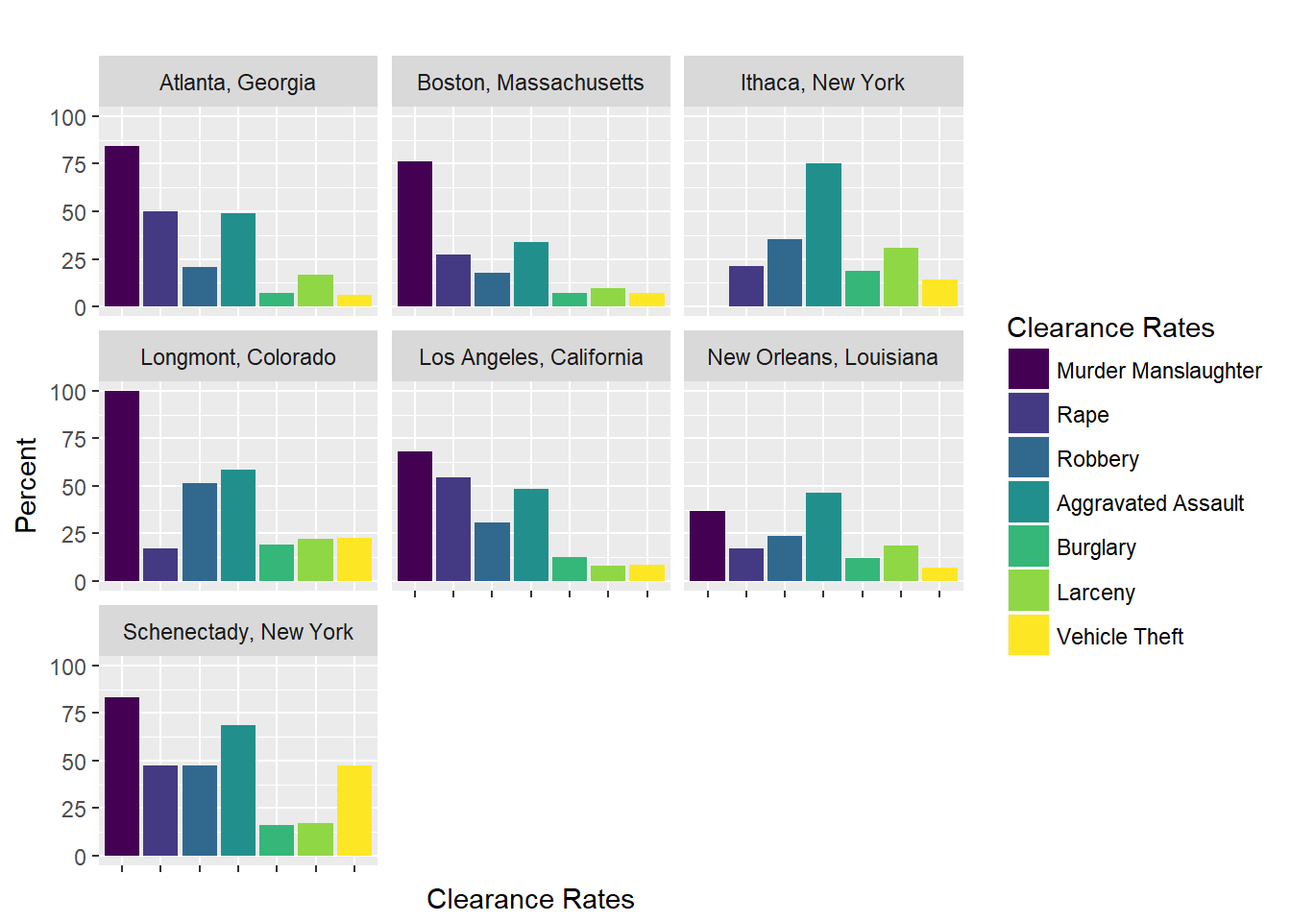
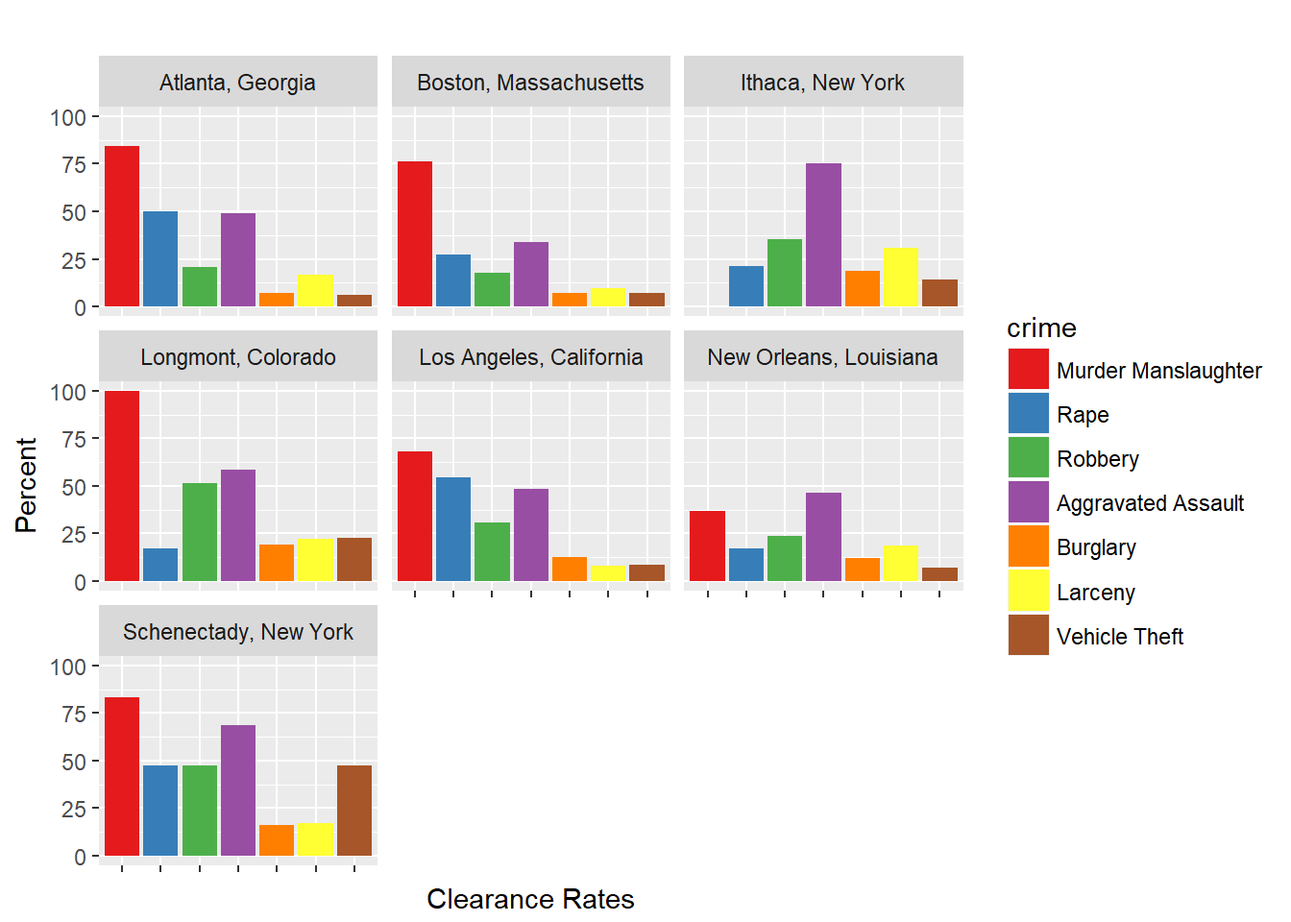
changed the colors in UCR blog post, and modified the date on current blog post (2/21)

diff --git a/docs/2017/06/04/public-safety-open-data-portal/index.html b/docs/2017/06/04/public-safety-open-data-portal/index.html
@@ -282,7 +282,7 @@ On a positive note, incident locations contain latitudes and longitudes that app
 <p>Below we take a look at incidents for Atlanta PD. First we load the information and limit to the first 4 months of 2017. Next, we examine the recorded times for these 7,668 incidents. There were an average of 1.3 incidents per day. Focusing on the minutes shows that officers entering the information were likely to round to the nearest hour, 30 minutes, or other increments, rather than entering an accurately recorded time.</p>
 <p><div id="htmlwidget-1" style="width:100%;height:auto;" class="datatables html-widget"></div>
 <script type="application/json" data-for="htmlwidget-1">{"x":{"filter":"none","data":[[0,30,45,15,20,40,50,10,25,55,35,5,1,2,6,43,21,22,58,42,54,7,11,47,26,28,52,9,12,39,41,53,4,17,44,48,56,3,19,24,37,49,59,8,33,36,57,13,46,23,31,38,51,14,18,29,32,27,16,34],[3393,1318,331,285,243,222,222,169,102,88,85,81,64,31,30,30,29,29,29,28,28,27,27,27,25,25,25,24,24,24,24,24,23,23,23,23,23,22,22,22,22,22,22,21,21,21,21,20,20,18,18,18,18,17,17,17,17,16,14,14],[0.442488262910798,0.17188315075639,0.0431664058424622,0.0371674491392801,0.0316901408450704,0.0289514866979656,0.0289514866979656,0.0220396452790819,0.013302034428795,0.0114762649973918,0.0110850286906625,0.0105633802816901,0.00834637454355764,0.00404277516953573,0.00391236306729264,0.00391236306729264,0.00378195096504956,0.00378195096504956,0.00378195096504956,0.00365153886280647,0.00365153886280647,0.00352112676056338,0.00352112676056338,0.00352112676056338,0.0032603025560772,0.0032603025560772,0.0032603025560772,0.00312989045383412,0.00312989045383412,0.00312989045383412,0.00312989045383412,0.00312989045383412,0.00299947835159103,0.00299947835159103,0.00299947835159103,0.00299947835159103,0.00299947835159103,0.00286906624934794,0.00286906624934794,0.00286906624934794,0.00286906624934794,0.00286906624934794,0.00286906624934794,0.00273865414710485,0.00273865414710485,0.00273865414710485,0.00273865414710485,0.00260824204486176,0.00260824204486176,0.00234741784037559,0.00234741784037559,0.00234741784037559,0.00234741784037559,0.0022170057381325,0.0022170057381325,0.0022170057381325,0.0022170057381325,0.00208659363588941,0.00182576943140323,0.00182576943140323],[0.442488262910798,0.614371413667188,0.657537819509651,0.694705268648931,0.726395409494001,0.755346896191967,0.784298382889932,0.806338028169014,0.819640062597809,0.831116327595201,0.842201356285863,0.852764736567553,0.861111111111111,0.865153886280647,0.86906624934794,0.872978612415232,0.876760563380282,0.880542514345331,0.884324465310381,0.887976004173187,0.891627543035994,0.895148669796557,0.898669796557121,0.902190923317684,0.905451225873761,0.908711528429838,0.911971830985915,0.91510172143975,0.918231611893584,0.921361502347418,0.924491392801252,0.927621283255086,0.930620761606677,0.933620239958268,0.936619718309859,0.93961919666145,0.942618675013041,0.945487741262389,0.948356807511737,0.951225873761085,0.954094940010433,0.956964006259781,0.959833072509129,0.962571726656234,0.965310380803339,0.968049034950443,0.970787689097548,0.97339593114241,0.976004173187272,0.978351591027647,0.980699008868023,0.983046426708399,0.985393844548774,0.987610850286907,0.989827856025039,0.992044861763172,0.994261867501304,0.996348461137194,0.998174230568597,1]],"container":"<table class=\"display\">\n  <thead>\n    <tr>\n      <th>minute<\/th>\n      <th>count<\/th>\n      <th>percent<\/th>\n      <th>cumulative<\/th>\n    <\/tr>\n  <\/thead>\n<\/table>","options":{"columnDefs":[{"className":"dt-right","targets":[0,1,2,3]}],"order":[],"autoWidth":false,"orderClasses":false,"rowCallback":"function(row, data) {\nDTWidget.formatCurrency(this, row, data, 1, '', 0, 3, ',', '.', true);\nDTWidget.formatPercentage(this, row, data, 2, 2, 3, ',', '.');\nDTWidget.formatPercentage(this, row, data, 3, 2, 3, ',', '.');\n}"}},"evals":["options.rowCallback"],"jsHooks":[]}</script><div id="htmlwidget-2" style="width:672px;height:480px;" class="plotly html-widget"></div>
-<script type="application/json" data-for="htmlwidget-2">{"x":{"visdat":{"495c3e01110b":["function () ","plotlyVisDat"]},"cur_data":"495c3e01110b","attrs":{"495c3e01110b":{"x":{},"y":{},"alpha":1,"sizes":[10,100],"type":"bar"}},"layout":{"margin":{"b":40,"l":60,"t":25,"r":10},"xaxis":{"domain":[0,1],"title":"minute"},"yaxis":{"domain":[0,1],"title":"count"},"hovermode":"closest","showlegend":false},"source":"A","config":{"modeBarButtonsToAdd":[{"name":"Collaborate","icon":{"width":1000,"ascent":500,"descent":-50,"path":"M487 375c7-10 9-23 5-36l-79-259c-3-12-11-23-22-31-11-8-22-12-35-12l-263 0c-15 0-29 5-43 15-13 10-23 23-28 37-5 13-5 25-1 37 0 0 0 3 1 7 1 5 1 8 1 11 0 2 0 4-1 6 0 3-1 5-1 6 1 2 2 4 3 6 1 2 2 4 4 6 2 3 4 5 5 7 5 7 9 16 13 26 4 10 7 19 9 26 0 2 0 5 0 9-1 4-1 6 0 8 0 2 2 5 4 8 3 3 5 5 5 7 4 6 8 15 12 26 4 11 7 19 7 26 1 1 0 4 0 9-1 4-1 7 0 8 1 2 3 5 6 8 4 4 6 6 6 7 4 5 8 13 13 24 4 11 7 20 7 28 1 1 0 4 0 7-1 3-1 6-1 7 0 2 1 4 3 6 1 1 3 4 5 6 2 3 3 5 5 6 1 2 3 5 4 9 2 3 3 7 5 10 1 3 2 6 4 10 2 4 4 7 6 9 2 3 4 5 7 7 3 2 7 3 11 3 3 0 8 0 13-1l0-1c7 2 12 2 14 2l218 0c14 0 25-5 32-16 8-10 10-23 6-37l-79-259c-7-22-13-37-20-43-7-7-19-10-37-10l-248 0c-5 0-9-2-11-5-2-3-2-7 0-12 4-13 18-20 41-20l264 0c5 0 10 2 16 5 5 3 8 6 10 11l85 282c2 5 2 10 2 17 7-3 13-7 17-13z m-304 0c-1-3-1-5 0-7 1-1 3-2 6-2l174 0c2 0 4 1 7 2 2 2 4 4 5 7l6 18c0 3 0 5-1 7-1 1-3 2-6 2l-173 0c-3 0-5-1-8-2-2-2-4-4-4-7z m-24-73c-1-3-1-5 0-7 2-2 3-2 6-2l174 0c2 0 5 0 7 2 3 2 4 4 5 7l6 18c1 2 0 5-1 6-1 2-3 3-5 3l-174 0c-3 0-5-1-7-3-3-1-4-4-5-6z"},"click":"function(gd) { \n        // is this being viewed in RStudio?\n        if (location.search == '?viewer_pane=1') {\n          alert('To learn about plotly for collaboration, visit:\\n https://cpsievert.github.io/plotly_book/plot-ly-for-collaboration.html');\n        } else {\n          window.open('https://cpsievert.github.io/plotly_book/plot-ly-for-collaboration.html', '_blank');\n        }\n      }"}],"cloud":false},"data":[{"x":[0,30,45,15,20,40,50,10,25,55,35,5,1,2,6,43,21,22,58,42,54,7,11,47,26,28,52,9,12,39,41,53,4,17,44,48,56,3,19,24,37,49,59,8,33,36,57,13,46,23,31,38,51,14,18,29,32,27,16,34],"y":[3393,1318,331,285,243,222,222,169,102,88,85,81,64,31,30,30,29,29,29,28,28,27,27,27,25,25,25,24,24,24,24,24,23,23,23,23,23,22,22,22,22,22,22,21,21,21,21,20,20,18,18,18,18,17,17,17,17,16,14,14],"type":"bar","marker":{"fillcolor":"rgba(31,119,180,1)","color":"rgba(31,119,180,1)","line":{"color":"transparent"}},"xaxis":"x","yaxis":"y","frame":null}],"highlight":{"on":"plotly_click","persistent":false,"dynamic":false,"selectize":false,"opacityDim":0.2,"selected":{"opacity":1}},"base_url":"https://plot.ly"},"evals":["config.modeBarButtonsToAdd.0.click"],"jsHooks":[]}</script></p>
+<script type="application/json" data-for="htmlwidget-2">{"x":{"visdat":{"556839fac32":["function () ","plotlyVisDat"]},"cur_data":"556839fac32","attrs":{"556839fac32":{"x":{},"y":{},"alpha":1,"sizes":[10,100],"type":"bar"}},"layout":{"margin":{"b":40,"l":60,"t":25,"r":10},"xaxis":{"domain":[0,1],"title":"minute"},"yaxis":{"domain":[0,1],"title":"count"},"hovermode":"closest","showlegend":false},"source":"A","config":{"modeBarButtonsToAdd":[{"name":"Collaborate","icon":{"width":1000,"ascent":500,"descent":-50,"path":"M487 375c7-10 9-23 5-36l-79-259c-3-12-11-23-22-31-11-8-22-12-35-12l-263 0c-15 0-29 5-43 15-13 10-23 23-28 37-5 13-5 25-1 37 0 0 0 3 1 7 1 5 1 8 1 11 0 2 0 4-1 6 0 3-1 5-1 6 1 2 2 4 3 6 1 2 2 4 4 6 2 3 4 5 5 7 5 7 9 16 13 26 4 10 7 19 9 26 0 2 0 5 0 9-1 4-1 6 0 8 0 2 2 5 4 8 3 3 5 5 5 7 4 6 8 15 12 26 4 11 7 19 7 26 1 1 0 4 0 9-1 4-1 7 0 8 1 2 3 5 6 8 4 4 6 6 6 7 4 5 8 13 13 24 4 11 7 20 7 28 1 1 0 4 0 7-1 3-1 6-1 7 0 2 1 4 3 6 1 1 3 4 5 6 2 3 3 5 5 6 1 2 3 5 4 9 2 3 3 7 5 10 1 3 2 6 4 10 2 4 4 7 6 9 2 3 4 5 7 7 3 2 7 3 11 3 3 0 8 0 13-1l0-1c7 2 12 2 14 2l218 0c14 0 25-5 32-16 8-10 10-23 6-37l-79-259c-7-22-13-37-20-43-7-7-19-10-37-10l-248 0c-5 0-9-2-11-5-2-3-2-7 0-12 4-13 18-20 41-20l264 0c5 0 10 2 16 5 5 3 8 6 10 11l85 282c2 5 2 10 2 17 7-3 13-7 17-13z m-304 0c-1-3-1-5 0-7 1-1 3-2 6-2l174 0c2 0 4 1 7 2 2 2 4 4 5 7l6 18c0 3 0 5-1 7-1 1-3 2-6 2l-173 0c-3 0-5-1-8-2-2-2-4-4-4-7z m-24-73c-1-3-1-5 0-7 2-2 3-2 6-2l174 0c2 0 5 0 7 2 3 2 4 4 5 7l6 18c1 2 0 5-1 6-1 2-3 3-5 3l-174 0c-3 0-5-1-7-3-3-1-4-4-5-6z"},"click":"function(gd) { \n        // is this being viewed in RStudio?\n        if (location.search == '?viewer_pane=1') {\n          alert('To learn about plotly for collaboration, visit:\\n https://cpsievert.github.io/plotly_book/plot-ly-for-collaboration.html');\n        } else {\n          window.open('https://cpsievert.github.io/plotly_book/plot-ly-for-collaboration.html', '_blank');\n        }\n      }"}],"cloud":false},"data":[{"x":[0,30,45,15,20,40,50,10,25,55,35,5,1,2,6,43,21,22,58,42,54,7,11,47,26,28,52,9,12,39,41,53,4,17,44,48,56,3,19,24,37,49,59,8,33,36,57,13,46,23,31,38,51,14,18,29,32,27,16,34],"y":[3393,1318,331,285,243,222,222,169,102,88,85,81,64,31,30,30,29,29,29,28,28,27,27,27,25,25,25,24,24,24,24,24,23,23,23,23,23,22,22,22,22,22,22,21,21,21,21,20,20,18,18,18,18,17,17,17,17,16,14,14],"type":"bar","marker":{"fillcolor":"rgba(31,119,180,1)","color":"rgba(31,119,180,1)","line":{"color":"transparent"}},"xaxis":"x","yaxis":"y","frame":null}],"highlight":{"on":"plotly_click","persistent":false,"dynamic":false,"selectize":false,"opacityDim":0.2,"selected":{"opacity":1}},"base_url":"https://plot.ly"},"evals":["config.modeBarButtonsToAdd.0.click"],"jsHooks":[]}</script></p>
 </div>
 <div id="boston" class="section level2">
 <h2>Boston</h2>

diff --git a/content/post/2017-06-04-public-safety-open-data-portal.html b/content/post/2017-06-04-public-safety-open-data-portal.html
@@ -67,7 +67,7 @@ On a positive note, incident locations contain latitudes and longitudes that app
 <p>Below we take a look at incidents for Atlanta PD. First we load the information and limit to the first 4 months of 2017. Next, we examine the recorded times for these 7,668 incidents. There were an average of 1.3 incidents per day. Focusing on the minutes shows that officers entering the information were likely to round to the nearest hour, 30 minutes, or other increments, rather than entering an accurately recorded time.</p>
 <p><div id="htmlwidget-1" style="width:100%;height:auto;" class="datatables html-widget"></div>
 <script type="application/json" data-for="htmlwidget-1">{"x":{"filter":"none","data":[[0,30,45,15,20,40,50,10,25,55,35,5,1,2,6,43,21,22,58,42,54,7,11,47,26,28,52,9,12,39,41,53,4,17,44,48,56,3,19,24,37,49,59,8,33,36,57,13,46,23,31,38,51,14,18,29,32,27,16,34],[3393,1318,331,285,243,222,222,169,102,88,85,81,64,31,30,30,29,29,29,28,28,27,27,27,25,25,25,24,24,24,24,24,23,23,23,23,23,22,22,22,22,22,22,21,21,21,21,20,20,18,18,18,18,17,17,17,17,16,14,14],[0.442488262910798,0.17188315075639,0.0431664058424622,0.0371674491392801,0.0316901408450704,0.0289514866979656,0.0289514866979656,0.0220396452790819,0.013302034428795,0.0114762649973918,0.0110850286906625,0.0105633802816901,0.00834637454355764,0.00404277516953573,0.00391236306729264,0.00391236306729264,0.00378195096504956,0.00378195096504956,0.00378195096504956,0.00365153886280647,0.00365153886280647,0.00352112676056338,0.00352112676056338,0.00352112676056338,0.0032603025560772,0.0032603025560772,0.0032603025560772,0.00312989045383412,0.00312989045383412,0.00312989045383412,0.00312989045383412,0.00312989045383412,0.00299947835159103,0.00299947835159103,0.00299947835159103,0.00299947835159103,0.00299947835159103,0.00286906624934794,0.00286906624934794,0.00286906624934794,0.00286906624934794,0.00286906624934794,0.00286906624934794,0.00273865414710485,0.00273865414710485,0.00273865414710485,0.00273865414710485,0.00260824204486176,0.00260824204486176,0.00234741784037559,0.00234741784037559,0.00234741784037559,0.00234741784037559,0.0022170057381325,0.0022170057381325,0.0022170057381325,0.0022170057381325,0.00208659363588941,0.00182576943140323,0.00182576943140323],[0.442488262910798,0.614371413667188,0.657537819509651,0.694705268648931,0.726395409494001,0.755346896191967,0.784298382889932,0.806338028169014,0.819640062597809,0.831116327595201,0.842201356285863,0.852764736567553,0.861111111111111,0.865153886280647,0.86906624934794,0.872978612415232,0.876760563380282,0.880542514345331,0.884324465310381,0.887976004173187,0.891627543035994,0.895148669796557,0.898669796557121,0.902190923317684,0.905451225873761,0.908711528429838,0.911971830985915,0.91510172143975,0.918231611893584,0.921361502347418,0.924491392801252,0.927621283255086,0.930620761606677,0.933620239958268,0.936619718309859,0.93961919666145,0.942618675013041,0.945487741262389,0.948356807511737,0.951225873761085,0.954094940010433,0.956964006259781,0.959833072509129,0.962571726656234,0.965310380803339,0.968049034950443,0.970787689097548,0.97339593114241,0.976004173187272,0.978351591027647,0.980699008868023,0.983046426708399,0.985393844548774,0.987610850286907,0.989827856025039,0.992044861763172,0.994261867501304,0.996348461137194,0.998174230568597,1]],"container":"<table class=\"display\">\n  <thead>\n    <tr>\n      <th>minute<\/th>\n      <th>count<\/th>\n      <th>percent<\/th>\n      <th>cumulative<\/th>\n    <\/tr>\n  <\/thead>\n<\/table>","options":{"columnDefs":[{"className":"dt-right","targets":[0,1,2,3]}],"order":[],"autoWidth":false,"orderClasses":false,"rowCallback":"function(row, data) {\nDTWidget.formatCurrency(this, row, data, 1, '', 0, 3, ',', '.', true);\nDTWidget.formatPercentage(this, row, data, 2, 2, 3, ',', '.');\nDTWidget.formatPercentage(this, row, data, 3, 2, 3, ',', '.');\n}"}},"evals":["options.rowCallback"],"jsHooks":[]}</script><div id="htmlwidget-2" style="width:672px;height:480px;" class="plotly html-widget"></div>
-<script type="application/json" data-for="htmlwidget-2">{"x":{"visdat":{"495c3e01110b":["function () ","plotlyVisDat"]},"cur_data":"495c3e01110b","attrs":{"495c3e01110b":{"x":{},"y":{},"alpha":1,"sizes":[10,100],"type":"bar"}},"layout":{"margin":{"b":40,"l":60,"t":25,"r":10},"xaxis":{"domain":[0,1],"title":"minute"},"yaxis":{"domain":[0,1],"title":"count"},"hovermode":"closest","showlegend":false},"source":"A","config":{"modeBarButtonsToAdd":[{"name":"Collaborate","icon":{"width":1000,"ascent":500,"descent":-50,"path":"M487 375c7-10 9-23 5-36l-79-259c-3-12-11-23-22-31-11-8-22-12-35-12l-263 0c-15 0-29 5-43 15-13 10-23 23-28 37-5 13-5 25-1 37 0 0 0 3 1 7 1 5 1 8 1 11 0 2 0 4-1 6 0 3-1 5-1 6 1 2 2 4 3 6 1 2 2 4 4 6 2 3 4 5 5 7 5 7 9 16 13 26 4 10 7 19 9 26 0 2 0 5 0 9-1 4-1 6 0 8 0 2 2 5 4 8 3 3 5 5 5 7 4 6 8 15 12 26 4 11 7 19 7 26 1 1 0 4 0 9-1 4-1 7 0 8 1 2 3 5 6 8 4 4 6 6 6 7 4 5 8 13 13 24 4 11 7 20 7 28 1 1 0 4 0 7-1 3-1 6-1 7 0 2 1 4 3 6 1 1 3 4 5 6 2 3 3 5 5 6 1 2 3 5 4 9 2 3 3 7 5 10 1 3 2 6 4 10 2 4 4 7 6 9 2 3 4 5 7 7 3 2 7 3 11 3 3 0 8 0 13-1l0-1c7 2 12 2 14 2l218 0c14 0 25-5 32-16 8-10 10-23 6-37l-79-259c-7-22-13-37-20-43-7-7-19-10-37-10l-248 0c-5 0-9-2-11-5-2-3-2-7 0-12 4-13 18-20 41-20l264 0c5 0 10 2 16 5 5 3 8 6 10 11l85 282c2 5 2 10 2 17 7-3 13-7 17-13z m-304 0c-1-3-1-5 0-7 1-1 3-2 6-2l174 0c2 0 4 1 7 2 2 2 4 4 5 7l6 18c0 3 0 5-1 7-1 1-3 2-6 2l-173 0c-3 0-5-1-8-2-2-2-4-4-4-7z m-24-73c-1-3-1-5 0-7 2-2 3-2 6-2l174 0c2 0 5 0 7 2 3 2 4 4 5 7l6 18c1 2 0 5-1 6-1 2-3 3-5 3l-174 0c-3 0-5-1-7-3-3-1-4-4-5-6z"},"click":"function(gd) { \n        // is this being viewed in RStudio?\n        if (location.search == '?viewer_pane=1') {\n          alert('To learn about plotly for collaboration, visit:\\n https://cpsievert.github.io/plotly_book/plot-ly-for-collaboration.html');\n        } else {\n          window.open('https://cpsievert.github.io/plotly_book/plot-ly-for-collaboration.html', '_blank');\n        }\n      }"}],"cloud":false},"data":[{"x":[0,30,45,15,20,40,50,10,25,55,35,5,1,2,6,43,21,22,58,42,54,7,11,47,26,28,52,9,12,39,41,53,4,17,44,48,56,3,19,24,37,49,59,8,33,36,57,13,46,23,31,38,51,14,18,29,32,27,16,34],"y":[3393,1318,331,285,243,222,222,169,102,88,85,81,64,31,30,30,29,29,29,28,28,27,27,27,25,25,25,24,24,24,24,24,23,23,23,23,23,22,22,22,22,22,22,21,21,21,21,20,20,18,18,18,18,17,17,17,17,16,14,14],"type":"bar","marker":{"fillcolor":"rgba(31,119,180,1)","color":"rgba(31,119,180,1)","line":{"color":"transparent"}},"xaxis":"x","yaxis":"y","frame":null}],"highlight":{"on":"plotly_click","persistent":false,"dynamic":false,"selectize":false,"opacityDim":0.2,"selected":{"opacity":1}},"base_url":"https://plot.ly"},"evals":["config.modeBarButtonsToAdd.0.click"],"jsHooks":[]}</script></p>
+<script type="application/json" data-for="htmlwidget-2">{"x":{"visdat":{"556839fac32":["function () ","plotlyVisDat"]},"cur_data":"556839fac32","attrs":{"556839fac32":{"x":{},"y":{},"alpha":1,"sizes":[10,100],"type":"bar"}},"layout":{"margin":{"b":40,"l":60,"t":25,"r":10},"xaxis":{"domain":[0,1],"title":"minute"},"yaxis":{"domain":[0,1],"title":"count"},"hovermode":"closest","showlegend":false},"source":"A","config":{"modeBarButtonsToAdd":[{"name":"Collaborate","icon":{"width":1000,"ascent":500,"descent":-50,"path":"M487 375c7-10 9-23 5-36l-79-259c-3-12-11-23-22-31-11-8-22-12-35-12l-263 0c-15 0-29 5-43 15-13 10-23 23-28 37-5 13-5 25-1 37 0 0 0 3 1 7 1 5 1 8 1 11 0 2 0 4-1 6 0 3-1 5-1 6 1 2 2 4 3 6 1 2 2 4 4 6 2 3 4 5 5 7 5 7 9 16 13 26 4 10 7 19 9 26 0 2 0 5 0 9-1 4-1 6 0 8 0 2 2 5 4 8 3 3 5 5 5 7 4 6 8 15 12 26 4 11 7 19 7 26 1 1 0 4 0 9-1 4-1 7 0 8 1 2 3 5 6 8 4 4 6 6 6 7 4 5 8 13 13 24 4 11 7 20 7 28 1 1 0 4 0 7-1 3-1 6-1 7 0 2 1 4 3 6 1 1 3 4 5 6 2 3 3 5 5 6 1 2 3 5 4 9 2 3 3 7 5 10 1 3 2 6 4 10 2 4 4 7 6 9 2 3 4 5 7 7 3 2 7 3 11 3 3 0 8 0 13-1l0-1c7 2 12 2 14 2l218 0c14 0 25-5 32-16 8-10 10-23 6-37l-79-259c-7-22-13-37-20-43-7-7-19-10-37-10l-248 0c-5 0-9-2-11-5-2-3-2-7 0-12 4-13 18-20 41-20l264 0c5 0 10 2 16 5 5 3 8 6 10 11l85 282c2 5 2 10 2 17 7-3 13-7 17-13z m-304 0c-1-3-1-5 0-7 1-1 3-2 6-2l174 0c2 0 4 1 7 2 2 2 4 4 5 7l6 18c0 3 0 5-1 7-1 1-3 2-6 2l-173 0c-3 0-5-1-8-2-2-2-4-4-4-7z m-24-73c-1-3-1-5 0-7 2-2 3-2 6-2l174 0c2 0 5 0 7 2 3 2 4 4 5 7l6 18c1 2 0 5-1 6-1 2-3 3-5 3l-174 0c-3 0-5-1-7-3-3-1-4-4-5-6z"},"click":"function(gd) { \n        // is this being viewed in RStudio?\n        if (location.search == '?viewer_pane=1') {\n          alert('To learn about plotly for collaboration, visit:\\n https://cpsievert.github.io/plotly_book/plot-ly-for-collaboration.html');\n        } else {\n          window.open('https://cpsievert.github.io/plotly_book/plot-ly-for-collaboration.html', '_blank');\n        }\n      }"}],"cloud":false},"data":[{"x":[0,30,45,15,20,40,50,10,25,55,35,5,1,2,6,43,21,22,58,42,54,7,11,47,26,28,52,9,12,39,41,53,4,17,44,48,56,3,19,24,37,49,59,8,33,36,57,13,46,23,31,38,51,14,18,29,32,27,16,34],"y":[3393,1318,331,285,243,222,222,169,102,88,85,81,64,31,30,30,29,29,29,28,28,27,27,27,25,25,25,24,24,24,24,24,23,23,23,23,23,22,22,22,22,22,22,21,21,21,21,20,20,18,18,18,18,17,17,17,17,16,14,14],"type":"bar","marker":{"fillcolor":"rgba(31,119,180,1)","color":"rgba(31,119,180,1)","line":{"color":"transparent"}},"xaxis":"x","yaxis":"y","frame":null}],"highlight":{"on":"plotly_click","persistent":false,"dynamic":false,"selectize":false,"opacityDim":0.2,"selected":{"opacity":1}},"base_url":"https://plot.ly"},"evals":["config.modeBarButtonsToAdd.0.click"],"jsHooks":[]}</script></p>
 </div>
 <div id="boston" class="section level2">
 <h2>Boston</h2>

diff --git a/docs/2017/06/16/ucr-2015-available-aka-data-set-36789/index.html b/docs/2017/06/16/ucr-2015-available-aka-data-set-36789/index.html
@@ -270,6 +270,11 @@
 </ul>
 <div id="htmlwidget-2" style="width:100%;height:auto;" class="datatables html-widget"></div>
 <script type="application/json" data-for="htmlwidget-2">{"x":{"filter":"top","filterHTML":"<tr>\n  <td data-type=\"character\" style=\"vertical-align: top;\">\n    <div class=\"form-group has-feedback\" style=\"margin-bottom: auto;\">\n      <input type=\"search\" placeholder=\"All\" class=\"form-control\" style=\"width: 100%;\"/>\n      <span class=\"glyphicon glyphicon-remove-circle form-control-feedback\"><\/span>\n    <\/div>\n  <\/td>\n  <td data-type=\"character\" style=\"vertical-align: top;\">\n    <div class=\"form-group has-feedback\" style=\"margin-bottom: auto;\">\n      <input type=\"search\" placeholder=\"All\" class=\"form-control\" style=\"width: 100%;\"/>\n      <span class=\"glyphicon glyphicon-remove-circle form-control-feedback\"><\/span>\n    <\/div>\n  <\/td>\n  <td data-type=\"number\" style=\"vertical-align: top;\">\n    <div class=\"form-group has-feedback\" style=\"margin-bottom: auto;\">\n      <input type=\"search\" placeholder=\"All\" class=\"form-control\" style=\"width: 100%;\"/>\n      <span class=\"glyphicon glyphicon-remove-circle form-control-feedback\"><\/span>\n    <\/div>\n    <div style=\"display: none; position: absolute; width: 200px;\">\n      <div data-min=\"30892\" data-max=\"3962726\"><\/div>\n      <span style=\"float: left;\"><\/span>\n      <span style=\"float: right;\"><\/span>\n    <\/div>\n  <\/td>\n  <td data-type=\"character\" style=\"vertical-align: top;\">\n    <div class=\"form-group has-feedback\" style=\"margin-bottom: auto;\">\n      <input type=\"search\" placeholder=\"All\" class=\"form-control\" style=\"width: 100%;\"/>\n      <span class=\"glyphicon glyphicon-remove-circle form-control-feedback\"><\/span>\n    <\/div>\n  <\/td>\n  <td data-type=\"number\" style=\"vertical-align: top;\">\n    <div class=\"form-group has-feedback\" style=\"margin-bottom: auto;\">\n      <input type=\"search\" placeholder=\"All\" class=\"form-control\" style=\"width: 100%;\"/>\n      <span class=\"glyphicon glyphicon-remove-circle form-control-feedback\"><\/span>\n    <\/div>\n    <div style=\"display: none; position: absolute; width: 200px;\">\n      <div data-min=\"0\" data-max=\"61191\"><\/div>\n      <span style=\"float: left;\"><\/span>\n      <span style=\"float: right;\"><\/span>\n    <\/div>\n  <\/td>\n  <td data-type=\"number\" style=\"vertical-align: top;\">\n    <div class=\"form-group has-feedback\" style=\"margin-bottom: auto;\">\n      <input type=\"search\" placeholder=\"All\" class=\"form-control\" style=\"width: 100%;\"/>\n      <span class=\"glyphicon glyphicon-remove-circle form-control-feedback\"><\/span>\n    <\/div>\n    <div style=\"display: none; position: absolute; width: 200px;\">\n      <div data-min=\"0\" data-max=\"6613\"><\/div>\n      <span style=\"float: left;\"><\/span>\n      <span style=\"float: right;\"><\/span>\n    <\/div>\n  <\/td>\n  <td data-type=\"number\" style=\"vertical-align: top;\">\n    <div class=\"form-group has-feedback\" style=\"margin-bottom: auto;\">\n      <input type=\"search\" placeholder=\"All\" class=\"form-control\" style=\"width: 100%;\"/>\n      <span class=\"glyphicon glyphicon-remove-circle form-control-feedback\"><\/span>\n    <\/div>\n    <div style=\"display: none; position: absolute; width: 200px;\">\n      <div data-min=\"0.058617468472676\" data-max=\"1\" data-scale=\"15\"><\/div>\n      <span style=\"float: left;\"><\/span>\n      <span style=\"float: right;\"><\/span>\n    <\/div>\n  <\/td>\n<\/tr>","data":[["Atlanta","Atlanta","Atlanta","Atlanta","Atlanta","Atlanta","Atlanta","Boston","Boston","Boston","Boston","Boston","Boston","Boston","Ithaca","Ithaca","Ithaca","Ithaca","Ithaca","Ithaca","Ithaca","Longmont","Longmont","Longmont","Longmont","Longmont","Longmont","Longmont","Los Angeles","Los Angeles","Los Angeles","Los Angeles","Los Angeles","Los Angeles","Los Angeles","New Orleans","New Orleans","New Orleans","New Orleans","New Orleans","New Orleans","New Orleans","Schenectady","Schenectady","Schenectady","Schenectady","Schenectady","Schenectady","Schenectady"],["Georgia","Georgia","Georgia","Georgia","Georgia","Georgia","Georgia","Massachusetts","Massachusetts","Massachusetts","Massachusetts","Massachusetts","Massachusetts","Massachusetts","New York","New York","New York","New York","New York","New York","New York","Colorado","Colorado","Colorado","Colorado","Colorado","Colorado","Colorado","California","California","California","California","California","California","California","Louisiana","Louisiana","Louisiana","Louisiana","Louisiana","Louisiana","Louisiana","New York","New York","New York","New York","New York","New York","New York"],[464710,464710,464710,464710,464710,464710,464710,665258,665258,665258,665258,665258,665258,665258,30892,30892,30892,30892,30892,30892,30892,91222,91222,91222,91222,91222,91222,91222,3962726,3962726,3962726,3962726,3962726,3962726,3962726,393447,393447,393447,393447,393447,393447,393447,65875,65875,65875,65875,65875,65875,65875],["Murder Manslaughter","Rape","Robbery","Aggravated Assault","Burglary","Larceny","Vehicle Theft","Murder Manslaughter","Rape","Robbery","Aggravated Assault","Burglary","Larceny","Vehicle Theft","Murder Manslaughter","Rape","Robbery","Aggravated Assault","Burglary","Larceny","Vehicle Theft","Murder Manslaughter","Rape","Robbery","Aggravated Assault","Burglary","Larceny","Vehicle Theft","Murder Manslaughter","Rape","Robbery","Aggravated Assault","Burglary","Larceny","Vehicle Theft","Murder Manslaughter","Rape","Robbery","Aggravated Assault","Burglary","Larceny","Vehicle Theft","Murder Manslaughter","Rape","Robbery","Aggravated Assault","Burglary","Larceny","Vehicle Theft"],[95,170,1995,2944,4781,16493,4282,38,240,1551,2873,2357,11772,1279,0,14,17,24,123,776,14,1,106,29,114,290,1685,142,283,2209,8952,13713,16160,61191,16152,165,409,1497,1666,2898,9828,2517,6,36,101,288,393,1336,55],[80,85,417,1438,351,2740,251,29,65,272,967,163,1128,88,0,3,6,18,23,241,2,1,18,15,67,55,374,32,193,1206,2739,6613,2061,4959,1352,61,70,358,773,347,1842,181,5,17,48,198,64,231,26],[0.842105263157895,0.5,0.209022556390977,0.488451086956522,0.0734156034302447,0.166131085915237,0.0586174684726763,0.763157894736842,0.270833333333333,0.175370728562218,0.336581970066133,0.0691557064064489,0.0958205912334353,0.0688037529319781,null,0.214285714285714,0.352941176470588,0.75,0.186991869918699,0.310567010309278,0.142857142857143,1,0.169811320754717,0.517241379310345,0.587719298245614,0.189655172413793,0.221958456973294,0.225352112676056,0.681978798586572,0.545948392937981,0.305965147453083,0.482243126959819,0.127537128712871,0.0810413296072952,0.0837048043585934,0.36969696969697,0.171149144254279,0.239144956579826,0.463985594237695,0.119737750172533,0.187423687423687,0.0719110051648788,0.833333333333333,0.472222222222222,0.475247524752475,0.6875,0.162849872773537,0.172904191616766,0.472727272727273]],"container":"<table class=\"display\">\n  <thead>\n    <tr>\n      <th>City<\/th>\n      <th>State<\/th>\n      <th>Population<\/th>\n      <th>Crime<\/th>\n      <th>Offenses<\/th>\n      <th>Clearances<\/th>\n      <th>Percentage<\/th>\n    <\/tr>\n  <\/thead>\n<\/table>","options":{"columnDefs":[{"className":"dt-right","targets":[2,4,5,6]}],"order":[],"autoWidth":false,"orderClasses":false,"orderCellsTop":true,"rowCallback":"function(row, data) {\nDTWidget.formatPercentage(this, row, data, 6, 1, 3, ',', '.');\nDTWidget.formatCurrency(this, row, data, 2, '', 0, 3, ',', '.', true);\nDTWidget.formatCurrency(this, row, data, 4, '', 0, 3, ',', '.', true);\nDTWidget.formatCurrency(this, row, data, 5, '', 0, 3, ',', '.', true);\n}"}},"evals":["options.rowCallback"],"jsHooks":[]}</script>
+<pre><code>## $fill
+## [1] &quot;Clearance Rates&quot;
+## 
+## attr(,&quot;class&quot;)
+## [1] &quot;labels&quot;</code></pre>
 <p><img src="../../../../post/2017-06-16-ucr-2015-available-aka-data-set-36789_files/figure-html/clearance_rate_graphic-1.png" width="672" /></p>
 </div>
 </div>

diff --git a/content/post/2017-06-16-ucr-2015-available-aka-data-set-36789.html b/content/post/2017-06-16-ucr-2015-available-aka-data-set-36789.html
@@ -52,6 +52,11 @@ topics: []
 </ul>
 <div id="htmlwidget-2" style="width:100%;height:auto;" class="datatables html-widget"></div>
 <script type="application/json" data-for="htmlwidget-2">{"x":{"filter":"top","filterHTML":"<tr>\n  <td data-type=\"character\" style=\"vertical-align: top;\">\n    <div class=\"form-group has-feedback\" style=\"margin-bottom: auto;\">\n      <input type=\"search\" placeholder=\"All\" class=\"form-control\" style=\"width: 100%;\"/>\n      <span class=\"glyphicon glyphicon-remove-circle form-control-feedback\"><\/span>\n    <\/div>\n  <\/td>\n  <td data-type=\"character\" style=\"vertical-align: top;\">\n    <div class=\"form-group has-feedback\" style=\"margin-bottom: auto;\">\n      <input type=\"search\" placeholder=\"All\" class=\"form-control\" style=\"width: 100%;\"/>\n      <span class=\"glyphicon glyphicon-remove-circle form-control-feedback\"><\/span>\n    <\/div>\n  <\/td>\n  <td data-type=\"number\" style=\"vertical-align: top;\">\n    <div class=\"form-group has-feedback\" style=\"margin-bottom: auto;\">\n      <input type=\"search\" placeholder=\"All\" class=\"form-control\" style=\"width: 100%;\"/>\n      <span class=\"glyphicon glyphicon-remove-circle form-control-feedback\"><\/span>\n    <\/div>\n    <div style=\"display: none; position: absolute; width: 200px;\">\n      <div data-min=\"30892\" data-max=\"3962726\"><\/div>\n      <span style=\"float: left;\"><\/span>\n      <span style=\"float: right;\"><\/span>\n    <\/div>\n  <\/td>\n  <td data-type=\"character\" style=\"vertical-align: top;\">\n    <div class=\"form-group has-feedback\" style=\"margin-bottom: auto;\">\n      <input type=\"search\" placeholder=\"All\" class=\"form-control\" style=\"width: 100%;\"/>\n      <span class=\"glyphicon glyphicon-remove-circle form-control-feedback\"><\/span>\n    <\/div>\n  <\/td>\n  <td data-type=\"number\" style=\"vertical-align: top;\">\n    <div class=\"form-group has-feedback\" style=\"margin-bottom: auto;\">\n      <input type=\"search\" placeholder=\"All\" class=\"form-control\" style=\"width: 100%;\"/>\n      <span class=\"glyphicon glyphicon-remove-circle form-control-feedback\"><\/span>\n    <\/div>\n    <div style=\"display: none; position: absolute; width: 200px;\">\n      <div data-min=\"0\" data-max=\"61191\"><\/div>\n      <span style=\"float: left;\"><\/span>\n      <span style=\"float: right;\"><\/span>\n    <\/div>\n  <\/td>\n  <td data-type=\"number\" style=\"vertical-align: top;\">\n    <div class=\"form-group has-feedback\" style=\"margin-bottom: auto;\">\n      <input type=\"search\" placeholder=\"All\" class=\"form-control\" style=\"width: 100%;\"/>\n      <span class=\"glyphicon glyphicon-remove-circle form-control-feedback\"><\/span>\n    <\/div>\n    <div style=\"display: none; position: absolute; width: 200px;\">\n      <div data-min=\"0\" data-max=\"6613\"><\/div>\n      <span style=\"float: left;\"><\/span>\n      <span style=\"float: right;\"><\/span>\n    <\/div>\n  <\/td>\n  <td data-type=\"number\" style=\"vertical-align: top;\">\n    <div class=\"form-group has-feedback\" style=\"margin-bottom: auto;\">\n      <input type=\"search\" placeholder=\"All\" class=\"form-control\" style=\"width: 100%;\"/>\n      <span class=\"glyphicon glyphicon-remove-circle form-control-feedback\"><\/span>\n    <\/div>\n    <div style=\"display: none; position: absolute; width: 200px;\">\n      <div data-min=\"0.058617468472676\" data-max=\"1\" data-scale=\"15\"><\/div>\n      <span style=\"float: left;\"><\/span>\n      <span style=\"float: right;\"><\/span>\n    <\/div>\n  <\/td>\n<\/tr>","data":[["Atlanta","Atlanta","Atlanta","Atlanta","Atlanta","Atlanta","Atlanta","Boston","Boston","Boston","Boston","Boston","Boston","Boston","Ithaca","Ithaca","Ithaca","Ithaca","Ithaca","Ithaca","Ithaca","Longmont","Longmont","Longmont","Longmont","Longmont","Longmont","Longmont","Los Angeles","Los Angeles","Los Angeles","Los Angeles","Los Angeles","Los Angeles","Los Angeles","New Orleans","New Orleans","New Orleans","New Orleans","New Orleans","New Orleans","New Orleans","Schenectady","Schenectady","Schenectady","Schenectady","Schenectady","Schenectady","Schenectady"],["Georgia","Georgia","Georgia","Georgia","Georgia","Georgia","Georgia","Massachusetts","Massachusetts","Massachusetts","Massachusetts","Massachusetts","Massachusetts","Massachusetts","New York","New York","New York","New York","New York","New York","New York","Colorado","Colorado","Colorado","Colorado","Colorado","Colorado","Colorado","California","California","California","California","California","California","California","Louisiana","Louisiana","Louisiana","Louisiana","Louisiana","Louisiana","Louisiana","New York","New York","New York","New York","New York","New York","New York"],[464710,464710,464710,464710,464710,464710,464710,665258,665258,665258,665258,665258,665258,665258,30892,30892,30892,30892,30892,30892,30892,91222,91222,91222,91222,91222,91222,91222,3962726,3962726,3962726,3962726,3962726,3962726,3962726,393447,393447,393447,393447,393447,393447,393447,65875,65875,65875,65875,65875,65875,65875],["Murder Manslaughter","Rape","Robbery","Aggravated Assault","Burglary","Larceny","Vehicle Theft","Murder Manslaughter","Rape","Robbery","Aggravated Assault","Burglary","Larceny","Vehicle Theft","Murder Manslaughter","Rape","Robbery","Aggravated Assault","Burglary","Larceny","Vehicle Theft","Murder Manslaughter","Rape","Robbery","Aggravated Assault","Burglary","Larceny","Vehicle Theft","Murder Manslaughter","Rape","Robbery","Aggravated Assault","Burglary","Larceny","Vehicle Theft","Murder Manslaughter","Rape","Robbery","Aggravated Assault","Burglary","Larceny","Vehicle Theft","Murder Manslaughter","Rape","Robbery","Aggravated Assault","Burglary","Larceny","Vehicle Theft"],[95,170,1995,2944,4781,16493,4282,38,240,1551,2873,2357,11772,1279,0,14,17,24,123,776,14,1,106,29,114,290,1685,142,283,2209,8952,13713,16160,61191,16152,165,409,1497,1666,2898,9828,2517,6,36,101,288,393,1336,55],[80,85,417,1438,351,2740,251,29,65,272,967,163,1128,88,0,3,6,18,23,241,2,1,18,15,67,55,374,32,193,1206,2739,6613,2061,4959,1352,61,70,358,773,347,1842,181,5,17,48,198,64,231,26],[0.842105263157895,0.5,0.209022556390977,0.488451086956522,0.0734156034302447,0.166131085915237,0.0586174684726763,0.763157894736842,0.270833333333333,0.175370728562218,0.336581970066133,0.0691557064064489,0.0958205912334353,0.0688037529319781,null,0.214285714285714,0.352941176470588,0.75,0.186991869918699,0.310567010309278,0.142857142857143,1,0.169811320754717,0.517241379310345,0.587719298245614,0.189655172413793,0.221958456973294,0.225352112676056,0.681978798586572,0.545948392937981,0.305965147453083,0.482243126959819,0.127537128712871,0.0810413296072952,0.0837048043585934,0.36969696969697,0.171149144254279,0.239144956579826,0.463985594237695,0.119737750172533,0.187423687423687,0.0719110051648788,0.833333333333333,0.472222222222222,0.475247524752475,0.6875,0.162849872773537,0.172904191616766,0.472727272727273]],"container":"<table class=\"display\">\n  <thead>\n    <tr>\n      <th>City<\/th>\n      <th>State<\/th>\n      <th>Population<\/th>\n      <th>Crime<\/th>\n      <th>Offenses<\/th>\n      <th>Clearances<\/th>\n      <th>Percentage<\/th>\n    <\/tr>\n  <\/thead>\n<\/table>","options":{"columnDefs":[{"className":"dt-right","targets":[2,4,5,6]}],"order":[],"autoWidth":false,"orderClasses":false,"orderCellsTop":true,"rowCallback":"function(row, data) {\nDTWidget.formatPercentage(this, row, data, 6, 1, 3, ',', '.');\nDTWidget.formatCurrency(this, row, data, 2, '', 0, 3, ',', '.', true);\nDTWidget.formatCurrency(this, row, data, 4, '', 0, 3, ',', '.', true);\nDTWidget.formatCurrency(this, row, data, 5, '', 0, 3, ',', '.', true);\n}"}},"evals":["options.rowCallback"],"jsHooks":[]}</script>
+<pre><code>## $fill
+## [1] &quot;Clearance Rates&quot;
+## 
+## attr(,&quot;class&quot;)
+## [1] &quot;labels&quot;</code></pre>
 <p><img src="/post/2017-06-16-ucr-2015-available-aka-data-set-36789_files/figure-html/clearance_rate_graphic-1.png" width="672" /></p>
 </div>
 </div>

diff --git a/docs/2018/02/11/nfirs-2015-improved/index.html b/docs/2018/02/11/nfirs-2015-improved/index.html
@@ -329,13 +329,13 @@
   <div class="pure-u-10-24">
     
     <nav class="next">
-      <a href="../../../../2018/02/18/problems-with-nfirs-2015/">Problems with NFIRS 2015</a>
+      <a href="../../../../2018/02/21/problems-with-nfirs-2015/">Problems with NFIRS 2015</a>
     </nav>
     
   </div>
   <div class="pure-u-1-24" style="text-align: right;">
     
-    <a href="../../../../2018/02/18/problems-with-nfirs-2015/"><i class="fa fa-chevron-right"></i></a>
+    <a href="../../../../2018/02/21/problems-with-nfirs-2015/"><i class="fa fa-chevron-right"></i></a>
     
   </div>
 </div>

diff --git a/docs/post/index.html b/docs/post/index.html
@@ -207,7 +207,7 @@
   <h2>2018</h2>
   <ul>
   
-    <li><time>Sunday, February 18, 2018</time> - <a href="../2018/02/18/problems-with-nfirs-2015/">Problems with NFIRS 2015</a></li>
+    <li><time>Wednesday, February 21, 2018</time> - <a href="../2018/02/21/problems-with-nfirs-2015/">Problems with NFIRS 2015</a></li>
 
   
     <li><time>Sunday, February 11, 2018</time> - <a href="../2018/02/11/nfirs-2015-improved/">NFIRS 2015 is Vastly Improved: Just Ask FEMA</a></li>

diff --git a/docs/index.html b/docs/index.html
@@ -208,13 +208,13 @@
   
     <article>
   <header>
-    <h2><a href="./2018/02/18/problems-with-nfirs-2015/">Problems with NFIRS 2015</a></h2>
+    <h2><a href="./2018/02/21/problems-with-nfirs-2015/">Problems with NFIRS 2015</a></h2>
 
     <div class="post-meta">
 
   <div>
     <i class="fa fa-calendar fa-fw"></i>
-    <time>Sunday, February 18, 2018</time>
+    <time>Wednesday, February 21, 2018</time>
   </div>
 
   

diff --git a/docs/2018/02/21/problems-with-nfirs-2015/index.html b/docs/2018/02/21/problems-with-nfirs-2015/index.html
@@ -203,7 +203,7 @@
 
   <div>
     <i class="fa fa-calendar fa-fw"></i>
-    <time>Sunday, February 18, 2018</time>
+    <time>Wednesday, February 21, 2018</time>
   </div>
 
   

diff --git a/content/post/2018-02-21-problems-with-nfirs-2015.html b/content/post/2018-02-21-problems-with-nfirs-2015.html
@@ -1,7 +1,7 @@
 ---
 title: Problems with NFIRS 2015
 author: Dov Chelst
-date: '2018-02-18'
+date: '2018-02-21'
 slug: problems-with-nfirs-2015
 categories: []
 tags: []
